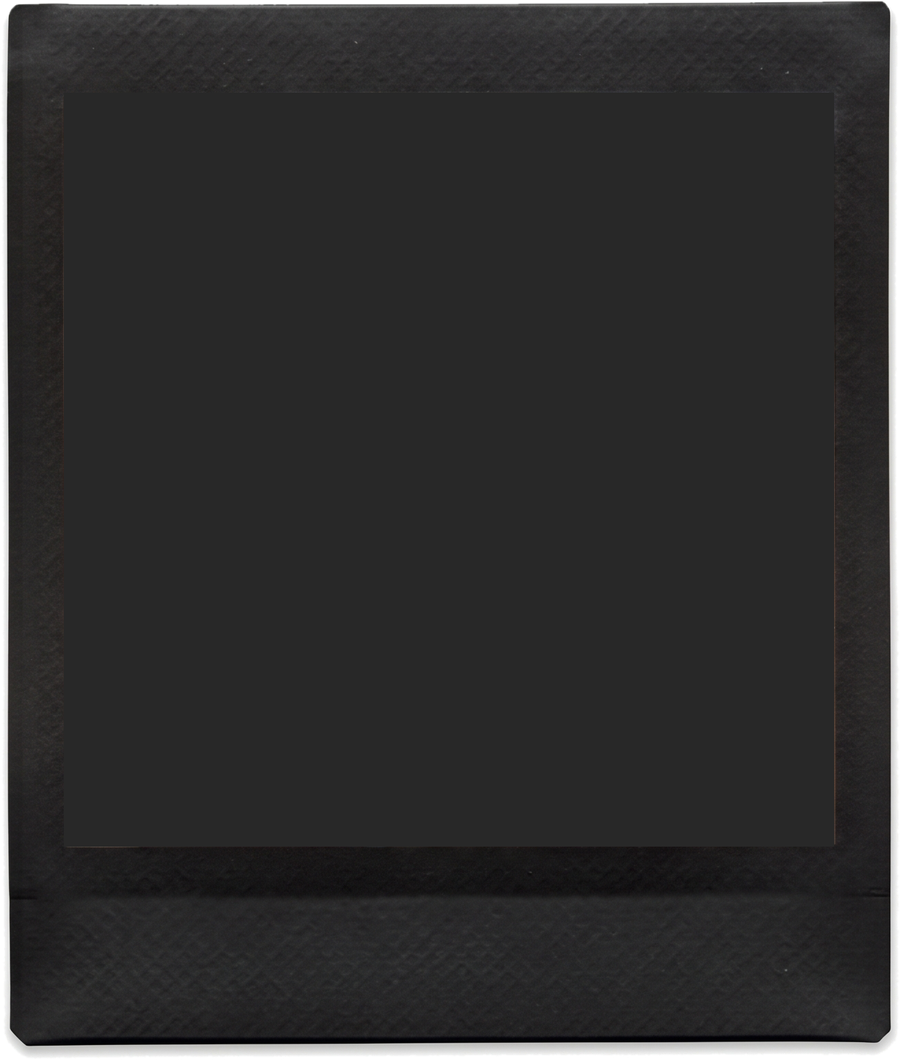
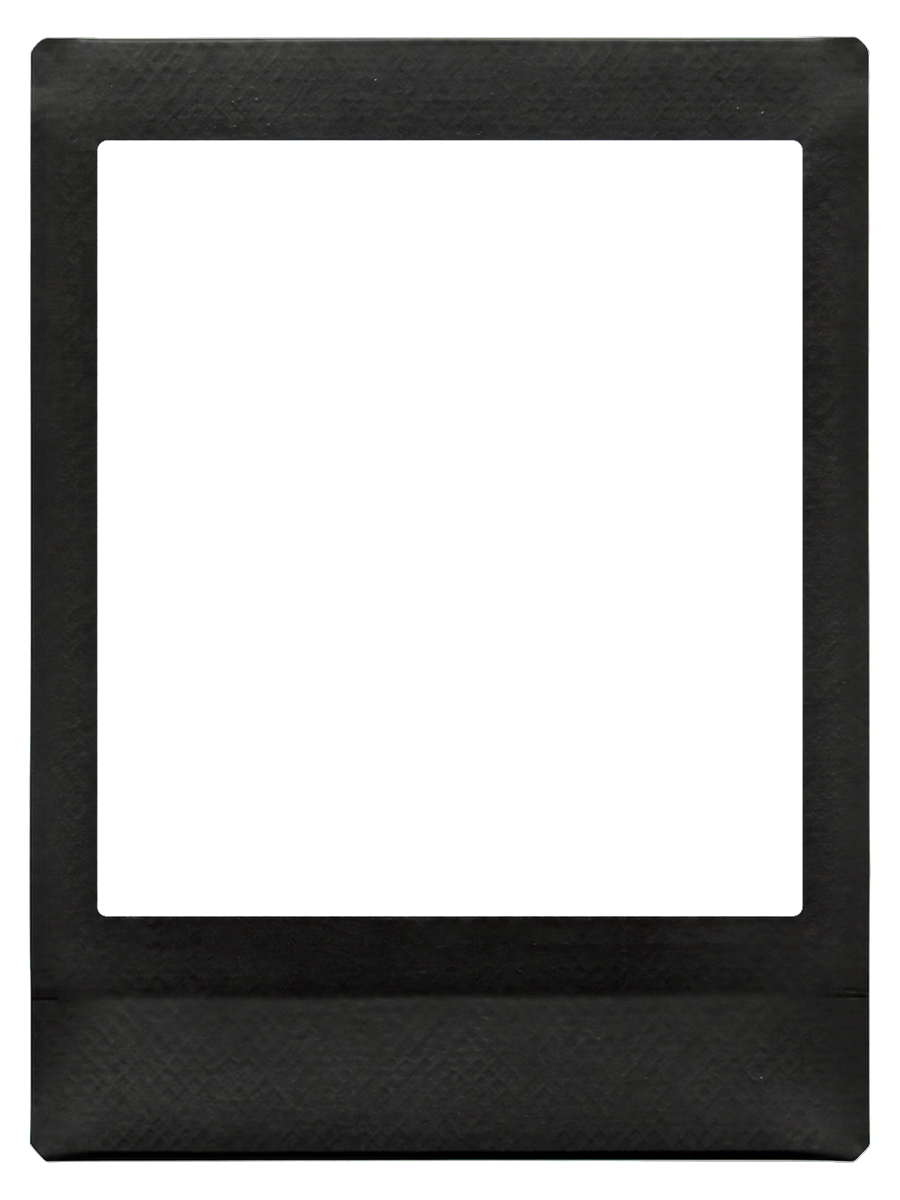
feat: every film is a 3:4 card; booth keeps the paper-style templates
- All six films (白底片, 黑底片, 底片框 and the three character frames) are
  redrawn at 3:4 with a magenta window and backdrop, keyed to transparent
  with the magenta spill taken off their edges. The card now always lies
  over the photo, so every print is the same size.
- The booth drops the bold set of themed strips and keeps the quieter
  paper-print ones (plus 精選).

diff --git a/lib/models.dart b/lib/models.dart
@@ -117,74 +117,43 @@ const stripTemplates = [
     name: 'Classic Film', category: '精選', caption: '', frame: Color(0xFF6C6A78), cell: Color(0xFF3A3746),
     art: ArtFrame('assets/templates/t8-classic-film.webp', 0.3306, [Rect.fromLTWH(0.1588, 0.0262, 0.6824, 0.2089), Rect.fromLTWH(0.1588, 0.2577, 0.6824, 0.2075), Rect.fromLTWH(0.1588, 0.4881, 0.6824, 0.1985), Rect.fromLTWH(0.1588, 0.7079, 0.6824, 0.198)]),
   ),
-  // Themed strips, each in a bold (illustrated) and a paper (quieter)
-  // version, drawn with Gemini.
+  // Themed strips drawn with Gemini, quiet paper-print style.
   // 日常可愛
-  StripTemplate(name: 'Picnic Day', category: '日常可愛', caption: '', frame: Colors.white, cell: Color(0xFFEDEAE4),
-    art: ArtFrame('assets/templates/picnic-day-a.webp', 0.5, [Rect.fromLTWH(0.1826, 0.0372, 0.6347, 0.19), Rect.fromLTWH(0.1826, 0.2351, 0.6347, 0.1798), Rect.fromLTWH(0.1826, 0.4222, 0.6347, 0.1798), Rect.fromLTWH(0.1826, 0.6099, 0.6347, 0.1849)])),
   StripTemplate(name: 'Picnic Day Paper', category: '日常可愛', caption: '', frame: Colors.white, cell: Color(0xFFEDEAE4),
     art: ArtFrame('assets/templates/picnic-day-b.webp', 0.3673, [Rect.fromLTWH(0.2086, 0.0415, 0.5829, 0.1867), Rect.fromLTWH(0.2108, 0.2573, 0.5785, 0.1859), Rect.fromLTWH(0.213, 0.4718, 0.5741, 0.1855), Rect.fromLTWH(0.2097, 0.6863, 0.5807, 0.1859)])),
-  StripTemplate(name: 'Bestie', category: '日常可愛', caption: '', frame: Colors.white, cell: Color(0xFFEDEAE4),
-    art: ArtFrame('assets/templates/bestie-a.webp', 0.5, [Rect.fromLTWH(0.1838, 0.0372, 0.6325, 0.19), Rect.fromLTWH(0.1838, 0.2345, 0.6325, 0.1804), Rect.fromLTWH(0.1838, 0.4222, 0.6325, 0.1798), Rect.fromLTWH(0.1838, 0.6099, 0.6325, 0.1843)])),
   StripTemplate(name: 'Bestie Paper', category: '日常可愛', caption: '', frame: Colors.white, cell: Color(0xFFEDEAE4),
     art: ArtFrame('assets/templates/bestie-b.webp', 0.3668, [Rect.fromLTWH(0.2066, 0.0423, 0.5857, 0.187), Rect.fromLTWH(0.2088, 0.2576, 0.5813, 0.1866), Rect.fromLTWH(0.2099, 0.472, 0.5791, 0.1862), Rect.fromLTWH(0.2077, 0.6864, 0.5846, 0.1862)])),
   // 底片復古
-  StripTemplate(name: 'Vintage Film', category: '底片復古', caption: '', frame: Colors.white, cell: Color(0xFFEDEAE4),
-    art: ArtFrame('assets/templates/vintage-film-a.webp', 0.5, [Rect.fromLTWH(0.1421, 0.0209, 0.7373, 0.226), Rect.fromLTWH(0.1421, 0.2638, 0.7373, 0.2182), Rect.fromLTWH(0.1421, 0.5068, 0.7373, 0.2221), Rect.fromLTWH(0.1421, 0.7497, 0.7373, 0.2221)])),
   StripTemplate(name: 'Vintage Film Paper', category: '底片復古', caption: '', frame: Colors.white, cell: Color(0xFFEDEAE4),
     art: ArtFrame('assets/templates/vintage-film-b.webp', 0.4444, [Rect.fromLTWH(0.1577, 0.0196, 0.673, 0.2194), Rect.fromLTWH(0.1577, 0.2626, 0.673, 0.2162), Rect.fromLTWH(0.1586, 0.5016, 0.6721, 0.2166), Rect.fromLTWH(0.1586, 0.741, 0.6721, 0.217)])),
-  StripTemplate(name: 'Kodak Yellow', category: '底片復古', caption: '', frame: Colors.white, cell: Color(0xFFEDEAE4),
-    art: ArtFrame('assets/templates/kodak-yellow-a.webp', 0.5, [Rect.fromLTWH(0.2086, 0.0474, 0.602, 0.186), Rect.fromLTWH(0.2086, 0.2463, 0.6032, 0.1781), Rect.fromLTWH(0.2086, 0.4357, 0.602, 0.1793), Rect.fromLTWH(0.2097, 0.6167, 0.602, 0.1809)])),
   StripTemplate(name: 'Kodak Yellow Paper', category: '底片復古', caption: '', frame: Colors.white, cell: Color(0xFFEDEAE4),
     art: ArtFrame('assets/templates/kodak-yellow-b.webp', 0.3678, [Rect.fromLTWH(0.2059, 0.0407, 0.586, 0.1882), Rect.fromLTWH(0.2081, 0.2562, 0.5827, 0.1873), Rect.fromLTWH(0.2081, 0.4706, 0.5816, 0.1873), Rect.fromLTWH(0.207, 0.6853, 0.5838, 0.1873)])),
   // 黑白
-  StripTemplate(name: 'Darkroom', category: '黑白', caption: '', frame: Colors.white, cell: Color(0xFFEDEAE4), mono: true,
-    art: ArtFrame('assets/templates/darkroom-a.webp', 0.5, [Rect.fromLTWH(0.1905, 0.0457, 0.6223, 0.1928), Rect.fromLTWH(0.1905, 0.252, 0.6223, 0.186), Rect.fromLTWH(0.1905, 0.451, 0.6223, 0.1843), Rect.fromLTWH(0.1905, 0.6483, 0.6223, 0.1838)])),
   StripTemplate(name: 'Darkroom Paper', category: '黑白', caption: '', frame: Colors.white, cell: Color(0xFFEDEAE4), mono: true,
     art: ArtFrame('assets/templates/darkroom-b.webp', 0.3664, [Rect.fromLTWH(0.214, 0.0464, 0.571, 0.1812), Rect.fromLTWH(0.2151, 0.26, 0.5677, 0.1816), Rect.fromLTWH(0.2172, 0.4728, 0.5633, 0.18), Rect.fromLTWH(0.2151, 0.6848, 0.5677, 0.1812)])),
-  StripTemplate(name: 'Paper Mono', category: '黑白', caption: '', frame: Colors.white, cell: Color(0xFFEDEAE4), mono: true,
-    art: ArtFrame('assets/templates/paper-mono-a.webp', 0.5, [Rect.fromLTWH(0.1894, 0.0457, 0.6234, 0.1917), Rect.fromLTWH(0.1894, 0.2514, 0.6234, 0.186), Rect.fromLTWH(0.1894, 0.4515, 0.6234, 0.1832), Rect.fromLTWH(0.1894, 0.6488, 0.6234, 0.1838)])),
   StripTemplate(name: 'Paper Mono Paper', category: '黑白', caption: '', frame: Colors.white, cell: Color(0xFFEDEAE4), mono: true,
     art: ArtFrame('assets/templates/paper-mono-b.webp', 0.3693, [Rect.fromLTWH(0.2061, 0.0415, 0.5812, 0.1869), Rect.fromLTWH(0.2061, 0.2557, 0.5812, 0.1865), Rect.fromLTWH(0.2061, 0.47, 0.5812, 0.1865), Rect.fromLTWH(0.2072, 0.6843, 0.5823, 0.1865)])),
   // 生日派對
-  StripTemplate(name: 'Pastel Party', category: '生日派對', caption: '', frame: Colors.white, cell: Color(0xFFEDEAE4),
-    art: ArtFrame('assets/templates/pastel-party-a.webp', 0.5, [Rect.fromLTWH(0.1849, 0.0395, 0.6313, 0.1883), Rect.fromLTWH(0.1849, 0.2368, 0.6313, 0.1787), Rect.fromLTWH(0.1849, 0.4245, 0.6313, 0.1776), Rect.fromLTWH(0.1849, 0.6116, 0.6313, 0.1826)])),
   StripTemplate(name: 'Pastel Party Paper', category: '生日派對', caption: '', frame: Colors.white, cell: Color(0xFFEDEAE4),
     art: ArtFrame('assets/templates/pastel-party-b.webp', 0.3643, [Rect.fromLTWH(0.2073, 0.0422, 0.5854, 0.1867), Rect.fromLTWH(0.2106, 0.257, 0.5788, 0.1855), Rect.fromLTWH(0.2117, 0.4699, 0.5766, 0.1847), Rect.fromLTWH(0.2095, 0.6823, 0.581, 0.1855)])),
-  StripTemplate(name: 'Gold Balloon', category: '生日派對', caption: '', frame: Colors.white, cell: Color(0xFFEDEAE4),
-    art: ArtFrame('assets/templates/gold-balloon-a.webp', 0.5, [Rect.fromLTWH(0.1838, 0.0383, 0.6325, 0.19), Rect.fromLTWH(0.1838, 0.2362, 0.6325, 0.1798), Rect.fromLTWH(0.1838, 0.4239, 0.6325, 0.1787), Rect.fromLTWH(0.1826, 0.6116, 0.6336, 0.1826)])),
   StripTemplate(name: 'Gold Balloon Paper', category: '生日派對', caption: '', frame: Colors.white, cell: Color(0xFFEDEAE4),
     art: ArtFrame('assets/templates/gold-balloon-b.webp', 0.3684, [Rect.fromLTWH(0.2099, 0.0429, 0.578, 0.1846), Rect.fromLTWH(0.2121, 0.2591, 0.5736, 0.1838), Rect.fromLTWH(0.2132, 0.4733, 0.5725, 0.183), Rect.fromLTWH(0.211, 0.6874, 0.578, 0.1842)])),
   // 婚禮
-  StripTemplate(name: 'Ivory Lace', category: '婚禮', caption: '', frame: Colors.white, cell: Color(0xFFEDEAE4),
-    art: ArtFrame('assets/templates/ivory-lace-a.webp', 0.5, [Rect.fromLTWH(0.1849, 0.0428, 0.6268, 0.1804), Rect.fromLTWH(0.1849, 0.2396, 0.6268, 0.1708), Rect.fromLTWH(0.186, 0.4262, 0.6257, 0.1702), Rect.fromLTWH(0.186, 0.6127, 0.6257, 0.1793)])),
   StripTemplate(name: 'Ivory Lace Paper', category: '婚禮', caption: '', frame: Colors.white, cell: Color(0xFFEDEAE4),
     art: ArtFrame('assets/templates/ivory-lace-b.webp', 0.3674, [Rect.fromLTWH(0.2068, 0.0457, 0.5842, 0.1783), Rect.fromLTWH(0.209, 0.2607, 0.5809, 0.1807), Rect.fromLTWH(0.2101, 0.4766, 0.5776, 0.1807), Rect.fromLTWH(0.209, 0.6932, 0.5831, 0.1807)])),
-  StripTemplate(name: 'Garden Bloom', category: '婚禮', caption: '', frame: Colors.white, cell: Color(0xFFEDEAE4),
-    art: ArtFrame('assets/templates/garden-bloom-a.webp', 0.5, [Rect.fromLTWH(0.1838, 0.0383, 0.6313, 0.1894), Rect.fromLTWH(0.1838, 0.2362, 0.6313, 0.1793), Rect.fromLTWH(0.1838, 0.4239, 0.6313, 0.1787), Rect.fromLTWH(0.1838, 0.611, 0.6313, 0.1838)])),
   StripTemplate(name: 'Garden Bloom Paper', category: '婚禮', caption: '', frame: Colors.white, cell: Color(0xFFEDEAE4),
     art: ArtFrame('assets/templates/garden-bloom-b.webp', 0.3681, [Rect.fromLTWH(0.2057, 0.0411, 0.5842, 0.1877), Rect.fromLTWH(0.2079, 0.2565, 0.581, 0.1873), Rect.fromLTWH(0.209, 0.4712, 0.5788, 0.1869), Rect.fromLTWH(0.2079, 0.6855, 0.5821, 0.1869)])),
   // 畢業
-  StripTemplate(name: 'Class Of', category: '畢業', caption: '', frame: Colors.white, cell: Color(0xFFEDEAE4),
-    art: ArtFrame('assets/templates/class-of-a.webp', 0.5, [Rect.fromLTWH(0.1826, 0.0389, 0.6336, 0.1883), Rect.fromLTWH(0.1826, 0.2356, 0.6347, 0.1793), Rect.fromLTWH(0.1826, 0.4233, 0.6347, 0.1787), Rect.fromLTWH(0.1826, 0.6105, 0.6347, 0.1838)])),
   StripTemplate(name: 'Class Of Paper', category: '畢業', caption: '', frame: Colors.white, cell: Color(0xFFEDEAE4),
     art: ArtFrame('assets/templates/class-of-b.webp', 0.3893, [Rect.fromLTWH(0.2112, 0.03, 0.5776, 0.1944), Rect.fromLTWH(0.2145, 0.2587, 0.5732, 0.1944), Rect.fromLTWH(0.2156, 0.4861, 0.571, 0.194), Rect.fromLTWH(0.2134, 0.7135, 0.5776, 0.1953)])),
   // 節慶
-  StripTemplate(name: 'Cozy Christmas', category: '節慶', caption: '', frame: Colors.white, cell: Color(0xFFEDEAE4),
-    art: ArtFrame('assets/templates/cozy-christmas-a.webp', 0.5, [Rect.fromLTWH(0.1826, 0.0383, 0.6336, 0.1888), Rect.fromLTWH(0.1826, 0.2356, 0.6347, 0.1793), Rect.fromLTWH(0.1826, 0.4228, 0.6347, 0.1793), Rect.fromLTWH(0.1826, 0.6099, 0.6347, 0.1843)])),
   StripTemplate(name: 'Cozy Christmas Paper', category: '節慶', caption: '', frame: Colors.white, cell: Color(0xFFEDEAE4),
     art: ArtFrame('assets/templates/cozy-christmas-b.webp', 0.3738, [Rect.fromLTWH(0.2075, 0.0431, 0.5829, 0.1892), Rect.fromLTWH(0.2097, 0.2626, 0.5785, 0.1888), Rect.fromLTWH(0.2108, 0.4813, 0.5752, 0.1883), Rect.fromLTWH(0.2097, 0.6992, 0.5796, 0.1888)])),
-  StripTemplate(name: 'New Year Red', category: '節慶', caption: '', frame: Colors.white, cell: Color(0xFFEDEAE4),
-    art: ArtFrame('assets/templates/new-year-red-a.webp', 0.5, [Rect.fromLTWH(0.1838, 0.0383, 0.6325, 0.1888), Rect.fromLTWH(0.1826, 0.2356, 0.6336, 0.1793), Rect.fromLTWH(0.1838, 0.4228, 0.6325, 0.1793), Rect.fromLTWH(0.1838, 0.6099, 0.6325, 0.1843)])),
   StripTemplate(name: 'New Year Red Paper', category: '節慶', caption: '', frame: Colors.white, cell: Color(0xFFEDEAE4),
     art: ArtFrame('assets/templates/new-year-red-b.webp', 0.3707, [Rect.fromLTWH(0.2118, 0.0417, 0.5753, 0.1833), Rect.fromLTWH(0.214, 0.2574, 0.571, 0.1837), Rect.fromLTWH(0.2151, 0.4719, 0.5677, 0.1833), Rect.fromLTWH(0.2129, 0.6868, 0.5731, 0.1845)])),
   // Y2K
-  StripTemplate(name: 'Jelly Pink', category: 'Y2K', caption: '', frame: Colors.white, cell: Color(0xFFEDEAE4),
-    art: ArtFrame('assets/templates/jelly-pink-a.webp', 0.5, [Rect.fromLTWH(0.1838, 0.0383, 0.6325, 0.1888), Rect.fromLTWH(0.1838, 0.2356, 0.6325, 0.1787), Rect.fromLTWH(0.1838, 0.4228, 0.6325, 0.1787), Rect.fromLTWH(0.1849, 0.6099, 0.6313, 0.1843)])),
   StripTemplate(name: 'Jelly Pink Paper', category: 'Y2K', caption: '', frame: Colors.white, cell: Color(0xFFEDEAE4),
     art: ArtFrame('assets/templates/jelly-pink-b.webp', 0.3696, [Rect.fromLTWH(0.2199, 0.0469, 0.5711, 0.182), Rect.fromLTWH(0.221, 0.2645, 0.5678, 0.1803), Rect.fromLTWH(0.2221, 0.4792, 0.5656, 0.1795), Rect.fromLTWH(0.2199, 0.6935, 0.5711, 0.1799)])),
-  StripTemplate(name: 'Cyber Blue', category: 'Y2K', caption: '', frame: Colors.white, cell: Color(0xFFEDEAE4),
-    art: ArtFrame('assets/templates/cyber-blue-a.webp', 0.5, [Rect.fromLTWH(0.168, 0.0631, 0.6618, 0.1601), Rect.fromLTWH(0.168, 0.261, 0.6618, 0.1539), Rect.fromLTWH(0.1691, 0.4515, 0.6607, 0.1522), Rect.fromLTWH(0.1691, 0.6415, 0.6607, 0.1539)])),
   StripTemplate(name: 'Cyber Blue Paper', category: 'Y2K', caption: '', frame: Colors.white, cell: Color(0xFFEDEAE4),
     art: ArtFrame('assets/templates/cyber-blue-b.webp', 0.3689, [Rect.fromLTWH(0.216, 0.0639, 0.5691, 0.1606), Rect.fromLTWH(0.216, 0.2795, 0.568, 0.161), Rect.fromLTWH(0.216, 0.4947, 0.5691, 0.161), Rect.fromLTWH(0.216, 0.71, 0.5691, 0.1606)])),
 ];

diff --git a/lib/widgets/instant_print.dart b/lib/widgets/instant_print.dart
@@ -5,20 +5,18 @@ import '../theme.dart';
 import 'doodle.dart';
 import 'frames.dart';
 
-/// Instant film. Both stocks come from photos of the same print, so their
-/// photo windows sit in (almost) the same place. The frames after them are
-/// whole cards with their own shape.
+/// Instant film. Every stock is a 3:4 card drawn with Gemini whose photo
+/// window is transparent: the card lies over the photo, so its decorations
+/// and characters can overlap the photo's edges.
 enum FilmStock {
-  white('白底片', 'assets/instant/film.png', Rect.fromLTWH(.07148, .08732, .85399, .71087), ink, Colors.white, Color(0xFF1E1E20)),
-  black('黑底片', 'assets/instant/film_black.png', Rect.fromLTWH(.07088, .08738, .85595, .71133), Colors.white, Color(0xFF1E1E20), Color(0xFFD4AF5A)),
-  // Cards drawn with Gemini; the character ones have a transparent window
-  // and lie over the photo so their characters can overlap it. For testing
-  // only: they use other people's characters, names and logos, not ours to
-  // ship.
-  filmFrame('底片框', 'assets/instant/frame_film.png', _frameWindow, Colors.white, Color(0xFF1E1E20), Color(0xFFD4AF5A), aspect: _frameAspect),
-  keroroFrame('Keroro 框', 'assets/instant/frame_keroro.png', Rect.fromLTWH(.09667, .07833, .78222, .71167), ink, Colors.white, ink, aspect: .75, overlay: true),
-  pokemonFrame('寶可夢框', 'assets/instant/frame_pokemon.png', Rect.fromLTWH(.16889, .11612, .66333, .68121), Colors.white, Color(0xFF1E1E20), Color(0xFFD4AF5A), aspect: .66568, overlay: true),
-  rakutenFrame('樂天桃猿框', 'assets/instant/frame_rakuten.png', Rect.fromLTWH(.09793, .07728, .81941, .6834), ink, Colors.white, Color(0xFF9E1B32), aspect: .79646, overlay: true);
+  white('白底片', 'assets/instant/film.png', Rect.fromLTWH(.10889, .11, .78333, .65167), ink, Colors.white, Color(0xFF1E1E20)),
+  black('黑底片', 'assets/instant/film_black.png', Rect.fromLTWH(.10778, .11667, .78444, .6475), Colors.white, Color(0xFF1E1E20), Color(0xFFD4AF5A)),
+  filmFrame('底片框', 'assets/instant/frame_film.png', Rect.fromLTWH(.14222, .11833, .71556, .655), Colors.white, Color(0xFF1E1E20), Color(0xFFD4AF5A)),
+  // For testing only: other people's characters, names and logos, not ours
+  // to ship.
+  keroroFrame('Keroro 框', 'assets/instant/frame_keroro.png', Rect.fromLTWH(.11333, .085, .77111, .69917), ink, Colors.white, ink),
+  pokemonFrame('寶可夢框', 'assets/instant/frame_pokemon.png', Rect.fromLTWH(.16667, .1175, .66444, .65), Colors.white, Color(0xFF1E1E20), Color(0xFFD4AF5A)),
+  rakutenFrame('樂天桃猿框', 'assets/instant/frame_rakuten.png', Rect.fromLTWH(.10778, .09333, .78444, .67083), ink, Colors.white, Color(0xFF9E1B32));
 
   final String label, asset;
   /// The photo window, as fractions of the print.
@@ -26,18 +24,13 @@ enum FilmStock {
   final Color text, swatch;
   /// The pen handwriting starts with: black on white film, gold on black.
   final Color pen;
-  /// Width / height of a print.
-  final double aspect;
-  /// The card is drawn over the photo (its window is transparent), so
-  /// decorations can overlap the photo's edges.
-  final bool overlay;
-  const FilmStock(this.label, this.asset, this.window, this.text, this.swatch, this.pen, {this.aspect = .85058, this.overlay = false});
+  const FilmStock(this.label, this.asset, this.window, this.text, this.swatch, this.pen);
+
+  /// Width / height of a print: the same for every stock.
+  double get aspect => .75;
 
   bool get dark => text == Colors.white;
 }
-
-const _frameAspect = 1588 / 2207;
-const _frameWindow = Rect.fromLTWH(.13854, .11192, .72544, .66742);
 
 /// How instax film develops at [t] (0–1): a flat pale grey-blue blank, then
 /// a faint, warm, low-contrast picture that gains colour and contrast.
@@ -98,11 +91,10 @@ class InstantPrint extends StatelessWidget {
       ? ColoredBox(color: film.dark ? const Color(0xFF2E2E31) : const Color(0xFFF1EDE8), child: Center(child: placeholder))
       : FittedPhoto(image: image!, fit: fit, aspect: aspect, onChanged: onFit, filter: filter);
     if (image != null && develop < 1) window = ColorFiltered(colorFilter: developFilter(develop), child: window);
-    final card = Positioned.fill(child: IgnorePointer(ignoring: film.overlay, child: Image.asset(film.asset, fit: BoxFit.fill, filterQuality: FilterQuality.medium)));
     return SizedBox(width: width, height: height, child: Stack(children: [
-      if (!film.overlay) card,
       Positioned.fromRect(rect: w, child: GestureDetector(onTap: onTap, child: ClipRect(child: window))),
-      if (film.overlay) card,
+      // Over the photo: the window is transparent and the art may overlap it.
+      Positioned.fill(child: IgnorePointer(child: Image.asset(film.asset, fit: BoxFit.fill, filterQuality: FilterQuality.medium))),
       if (selected)
         Positioned.fromRect(rect: w.inflate(1), child: IgnorePointer(child: DecoratedBox(
           decoration: BoxDecoration(border: Border.all(color: coral, width: 3)),
